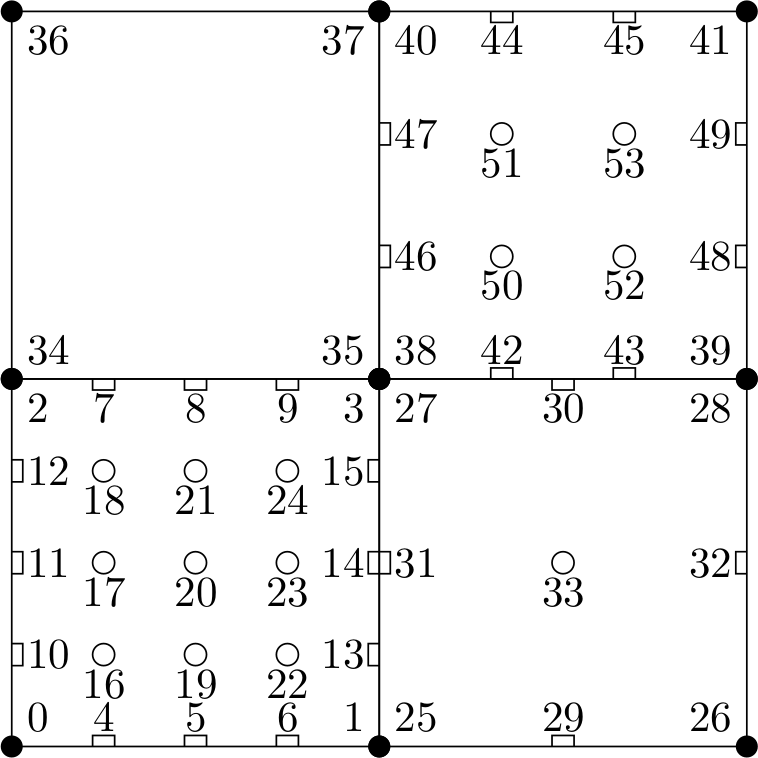
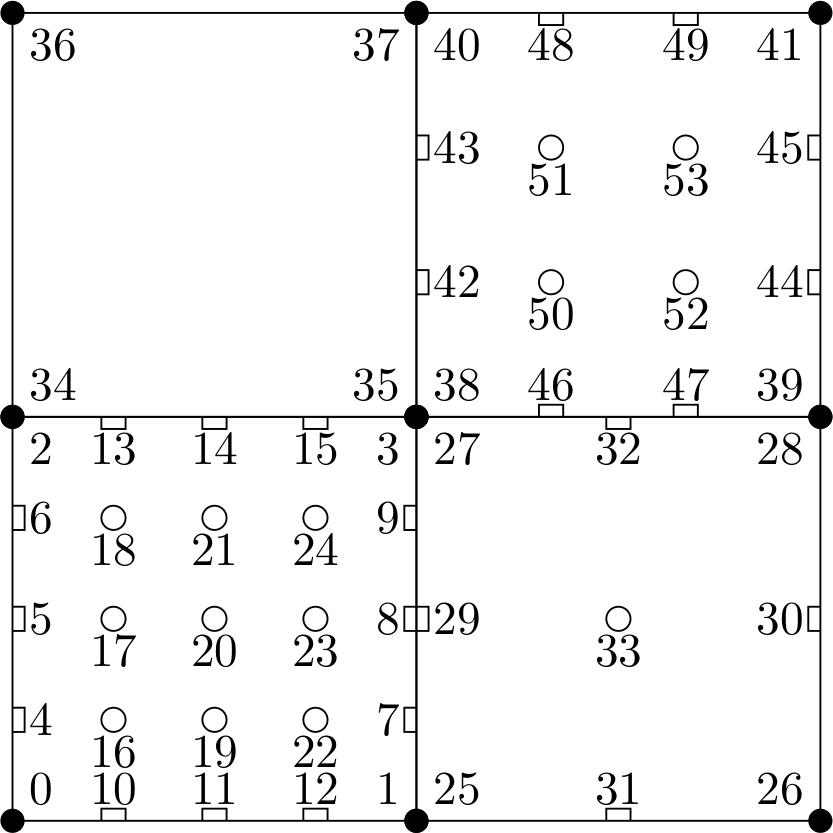
Provide FEM-TikZ as package.

diff --git a/example.tex b/example.tex
@@ -1,0 +1,28 @@
+\documentclass[10pt]{article}
+\usepackage{femtikz}
+
+%
+% Application example:
+%   Creates a grid according to the following sketch.
+%   Indices are set individually.
+%     |----|----|
+%     | Q1 | Q3 |
+%     |----|----|
+%     | Q4 | Q2 |
+%     |----|----|
+%
+\begin{document}
+	\begin{tikzpicture}[scale=3]
+		\def\Length{1}
+		\def\Radius{0.03}
+	
+		\LagrangeCell{0}{0}{\Length}{\Radius}{4}
+			{{0,1,2,3,4,5,6,7,8,9,10,11,12,13,14,15,16,17,18,19,20,21,22,23,24}};
+		\LagrangeCell{\Length}{0}{\Length}{\Radius}{2}
+			{{25,26,27,28,29,30,31,32,33}};
+		\LagrangeCell{0}{\Length}{\Length}{\Radius}{1}
+			{{34,35,36,37}};
+		\LagrangeCell{\Length}{\Length}{\Length}{\Radius}{3}
+			{{38,39,40,41,42,43,44,45,46,47,48,49,50,51,52,53}};
+	\end{tikzpicture}
+\end{document}
